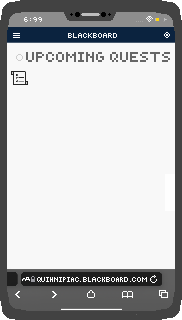
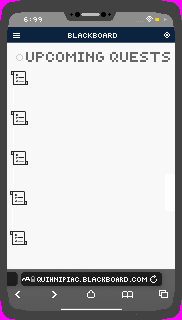
added quest menu object, quest object, quest menu functionality, and placeholder quest.

diff --git a/src/Level/QuestMenu.java b/src/Level/QuestMenu.java
@@ -1,5 +1,112 @@
 package Level;
 
-public class QuestMenu {
-    
+import java.awt.Color;
+import java.util.ArrayList;
+
+import Engine.GraphicsHandler;
+import Engine.ImageLoader;
+import SpriteFont.SpriteFont;
+import Engine.Key;
+import GameObject.Sprite;
+import SpriteFont.SpriteFont;
+import Engine.Screen;
+
+public class QuestMenu extends Screen {
+    // coordinates for sprite
+    private float x = 600;
+    private float y = 5;
+    // spritefont array that accounts for all 5 quest name spaces
+    private SpriteFont[] questText, questStepText;
+    // how sprite is stored
+    private Sprite questMenuGraphic;
+    private ArrayList<Quest> quests;
+
+    // default constructor
+    public QuestMenu() {
+        this.questMenuGraphic = new Sprite(ImageLoader.load("questBoard.png"), x, y);
+        this.quests = new ArrayList<Quest>(5);
+        this.questText = new SpriteFont[5];
+        this.questStepText = new SpriteFont[5];
+    }
+
+    // retrieves arraylist of quests
+    public ArrayList<Quest> getQuests() {
+        return quests;
+    }
+
+    // checks if empty
+    public boolean isEmpty() {
+        if (quests.isEmpty()) {
+            return true;
+        } else {
+            return false;
+        }
+    }
+
+    // adds quest to array list
+    public void addQuest(Quest newQuest) {
+        if (quests.size() == 5) {
+            throw new IllegalStateException("Quest array is full");
+        }
+
+        quests.add(newQuest);
+    }
+
+    // removes quest from array list
+    public Quest removeQuest(int index) {
+        if (isEmpty()) {
+            return null;
+        } else {
+            Quest placeholder = quests.get(index);
+            quests.remove(index);
+
+            // assigns the current index with the quest from the next index, and moves
+            // onwards until reaches end
+            for (int x = index; index < quests.size() && quests.size() != 1; index++) {
+                quests.set(x, quests.get(x + 1));
+            }
+            return placeholder;
+        }
+    }
+
+    @Override
+    public void initialize() {
+        // TODO Auto-generated method stub
+        throw new UnsupportedOperationException("Unimplemented method 'initialize'");
+    }
+
+    @Override
+    public void update() {
+        // TODO Auto-generated method stub
+        throw new UnsupportedOperationException("Unimplemented method 'update'");
+    }
+
+    @Override
+    public void draw(GraphicsHandler graphicsHandler) {
+        // draws sprite of quest menu
+        questMenuGraphic.draw(graphicsHandler);
+        // handles up to five quests being dispalyed
+        for (int index = 0; index < quests.size(); index++) {
+            
+            // assigns quest names in quest to SpriteFont array
+            questText[index] = new SpriteFont(quests.get(index).getQuestName(), (x + 35), (y + 72) + (40 * index),
+                    "Comic Sans", 10, Color.BLACK);
+            // draws the SpriteFonts on the quest menu
+            questText[index].drawWithParsedNewLines(graphicsHandler, 5);
+            //checks to make sure the current step is not null
+            if (quests.get(index).getClass() != null) {
+                //SpriteFont of the most current step for each quest
+                questStepText[index] = new SpriteFont("To do: " + quests.get(index).getCurrStep(), (x + 35),
+                        (y + 87) + (40 * index),
+                        "Comic Sans", 8, Color.BLACK);
+                //draws most recent step
+                questStepText[index].drawWithParsedNewLines(graphicsHandler, 5);
+            }
+
+            // if quest is completed, remove it from quest log
+            if (quests.get(index).isQuestStatus()) {
+                quests.remove(index);
+            }
+        }
+    }
 }

diff --git a/src/Level/Map.java b/src/Level/Map.java
@@ -2,8 +2,10 @@ package Level;
 
 import Engine.Config;
 import Engine.GraphicsHandler;
+import Engine.Key;
+import Engine.Keyboard;
 import Engine.ScreenManager;
-import GameObject.Rectangle;
+import Scripts.TestMap.placeHolderScript;
 import Utils.Direction;
 import Utils.Point;
 
@@ -72,6 +74,9 @@ public abstract class Map {
     // map's textbox instance
     protected Textbox textbox;
 
+    //map's quest menu
+    protected QuestMenu questMenu;
+
     public Map(String mapFileName, Tileset tileset) {
         this.mapFileName = mapFileName;
         this.tileset = tileset;
@@ -112,6 +117,14 @@ public abstract class Map {
 
         this.camera = new Camera(0, 0, tileset.getScaledSpriteWidth(), tileset.getScaledSpriteHeight(), this);
         this.textbox = new Textbox(this);
+        //instantiates quest menu that draws on screen
+        this.questMenu = new QuestMenu();
+        //creates quests and adds them to the quest menu
+        questMenu.addQuest(new Quest("Do your laundry", "Hit trigger one"));
+        questMenu.addQuest(new Quest("File your taxes", "Hit trigger one"));
+        questMenu.addQuest(new Quest("Make your bed","Hit trigger one"));
+        questMenu.addQuest(new Quest("Slay a dragon", "Hit trigger one"));
+        questMenu.addQuest(new Quest("Do a backflip", "Hit trigger one"));
     }
 
     // reads in a map file to create the map's tilemap
@@ -547,6 +560,11 @@ public abstract class Map {
         if (textbox.isActive()) {
             textbox.draw(graphicsHandler);
         }
+        
+        //draws the quest menu whenever someone is holding down the q key
+        if (Keyboard.isKeyDown(Key.Q)){
+            questMenu.draw(graphicsHandler);
+        }
     }
 
     public FlagManager getFlagManager() { return flagManager; }
@@ -556,6 +574,9 @@ public abstract class Map {
     }
 
     public Textbox getTextbox() { return textbox; }
+
+    //fetches questMenu
+    public QuestMenu getQuestMenu() {return questMenu; }
 
     public int getEndBoundX() { return endBoundX; }
     public int getEndBoundY() { return endBoundY; }

diff --git a/src/Scripts/TestMap/placeHolderScript.java b/src/Scripts/TestMap/placeHolderScript.java
@@ -1,0 +1,47 @@
+package Scripts.TestMap;
+
+import Level.Map;
+import Level.Script;
+import Level.ScriptState;
+
+public class placeHolderScript extends Script {
+    private String[] steps = new String[2];
+
+    @Override
+    protected void setup() {
+        //shows step values
+        steps[0] = "Hit trigger one";
+        steps[1] = "Hit trigger two";
+    }
+
+    @Override
+    protected void cleanup() {
+    }
+
+    @Override
+    protected ScriptState execute() {
+        start();
+        // if placeholder1 flag hasn't been set
+        if (!isFlagSet("placeholder1")) {
+            //updates the current step by one for each quest
+            for (int index = 0; index < 5; index++) {
+                getQuestMenu().getQuests().get(index).setCurrStep(steps[1]);
+            }
+            //sets flag so doesnt run again
+            setFlag("placeholder1");
+            return ScriptState.RUNNING;
+        }
+        // if placeholder2 flag hasn't been set
+        else if (!isFlagSet("placeholder2") && isFlagSet("placeholder1")) {
+            //marks all quests as complete
+            for (int index = 0; index < 5; index++){
+                getQuestMenu().getQuests().get(index).setQuestStatus(true);
+            }
+            //sets flag so doesnt run again
+            setFlag("placeholder2");
+            return ScriptState.RUNNING;
+        }
+        return ScriptState.COMPLETED;
+    }
+
+}

diff --git a/src/Level/Quest.java b/src/Level/Quest.java
@@ -1,0 +1,44 @@
+package Level;
+
+public class Quest {
+    private String questName, currStep;
+    private boolean questCompletionStatus;
+
+    //constructor for name and status
+    public Quest(String questName, boolean questCompletionStatus, String currStep) {
+        this.questName = questName;
+        this.questCompletionStatus = questCompletionStatus;
+        this.currStep = currStep;
+    }
+
+    //constructor for just name
+    public Quest(String questName, String currStep) {
+        this.questName = questName;
+        this.questCompletionStatus = false;
+        this.currStep = currStep;
+    }
+
+    public void setCurrStep(String currStep){
+        this.currStep = currStep;
+    }
+
+    public String getCurrStep(){
+        return currStep;
+    }
+
+    //changes quest status
+    public void setQuestStatus(boolean questStatus) {
+        this.questCompletionStatus = questStatus;
+    }
+
+    //returns the quest name
+    public String getQuestName() {
+        return questName;
+    }
+
+    //returns the quest status
+    public boolean isQuestStatus() {
+        return questCompletionStatus;
+    }
+
+}

diff --git a/src/Maps/TestMap.java b/src/Maps/TestMap.java
@@ -12,6 +12,7 @@ import Scripts.TestMap.DinoScript;
 import Scripts.TestMap.LostBallScript;
 import Scripts.TestMap.TreeScript;
 import Scripts.TestMap.WalrusScript;
+import Scripts.TestMap.placeHolderScript;
 import Tilesets.CommonTileset;
 
 import java.util.ArrayList;
@@ -53,6 +54,10 @@ public class TestMap extends Map {
     @Override
     public ArrayList<Trigger> loadTriggers() {
         ArrayList<Trigger> triggers = new ArrayList<>();
+        //triggers for demonstration quest
+        triggers.add(new Trigger(100, 40, 20, 20, new placeHolderScript(), "placeholder1"));
+        triggers.add(new Trigger(20, 40, 20, 20, new placeHolderScript(), "placeholder2"));
+        //base game triggers
         triggers.add(new Trigger(790, 1030, 100, 10, new LostBallScript(), "hasLostBall"));
         triggers.add(new Trigger(790, 960, 10, 80, new LostBallScript(), "hasLostBall"));
         triggers.add(new Trigger(890, 960, 10, 80, new LostBallScript(), "hasLostBall"));

diff --git a/src/Screens/PlayLevelScreen.java b/src/Screens/PlayLevelScreen.java
@@ -1,7 +1,6 @@
 package Screens;
 
-import Engine.GraphicsHandler;
-import Engine.Screen;
+import Engine.*;
 import Game.GameState;
 import Game.ScreenCoordinator;
 import Level.*;
@@ -26,6 +25,10 @@ public class PlayLevelScreen extends Screen {
     public void initialize() {
         // setup state
         flagManager = new FlagManager();
+        //custom placeholder flags
+        flagManager.addFlag("placeholder1", false);
+        flagManager.addFlag("placeholder2", false);
+        //base game flags
         flagManager.addFlag("hasLostBall", false);
         flagManager.addFlag("hasTalkedToWalrus", false);
         flagManager.addFlag("hasTalkedToDinosaur", false);
@@ -88,6 +91,8 @@ public class PlayLevelScreen extends Screen {
                 winScreen.update();
                 break;
         }
+
+        
 
         // if flag is set at any point during gameplay, game is "won"
         if (map.getFlagManager().isFlagSet("hasFoundBall")) {

diff --git a/src/Level/Script.java b/src/Level/Script.java
@@ -1,5 +1,4 @@
 package Level;
-import GameObject.Rectangle;
 import Utils.Direction;
 
 // This class is a base class for all scripts in the game -- all scripts should extend from it
@@ -204,5 +203,10 @@ public abstract class Script<T extends MapEntity> {
     protected boolean isPlayerBelowEntity() {
         Rectangle entityBounds = entity.getCalibratedBounds();
         return player.getBounds().getY1() > entityBounds.getY2();
+    }
+
+    //gets quest menu, allows map.java's quest menu to be used in scripts
+    protected QuestMenu getQuestMenu(){
+        return map.getQuestMenu();
     }
 }

diff --git a/src/GameObject/Frame.java b/src/GameObject/Frame.java
@@ -2,6 +2,8 @@ package GameObject;
 
 import java.awt.image.BufferedImage;
 
+import Level.Rectangle;
+
 // This class represents a Frame in an animation -- an array of Frames is an animation
 // A frame is a sprite that has a delay value which specifies how many milliseconds to stay on this frame before transitioning to the next frame in an animation
 public class Frame extends Sprite {

diff --git a/src/GameObject/IntersectableRectangle.java b/src/GameObject/IntersectableRectangle.java
@@ -1,5 +1,7 @@
 package GameObject;
 
+import Level.Rectangle;
+
 // This interface allows for specifying a rectangle that can be used in intersection logic by the Rectangle class
 public interface IntersectableRectangle {
     Rectangle getIntersectRectangle();

diff --git a/src/Level/MapTile.java b/src/Level/MapTile.java
@@ -3,7 +3,6 @@ package Level;
 import Engine.GraphicsHandler;
 import GameObject.GameObject;
 import GameObject.IntersectableRectangle;
-import GameObject.Rectangle;
 import GameObject.SpriteSheet;
 import Utils.Point;
 

diff --git a/src/Level/Player.java b/src/Level/Player.java
@@ -4,7 +4,6 @@ import Engine.Key;
 import Engine.KeyLocker;
 import Engine.Keyboard;
 import GameObject.GameObject;
-import GameObject.Rectangle;
 import GameObject.SpriteSheet;
 import Utils.Direction;
 

diff --git a/src/Level/Camera.java b/src/Level/Camera.java
@@ -3,7 +3,6 @@ package Level;
 import Engine.GraphicsHandler;
 import Engine.ScreenManager;
 import GameObject.GameObject;
-import GameObject.Rectangle;
 
 import java.awt.*;
 import java.util.ArrayList;
